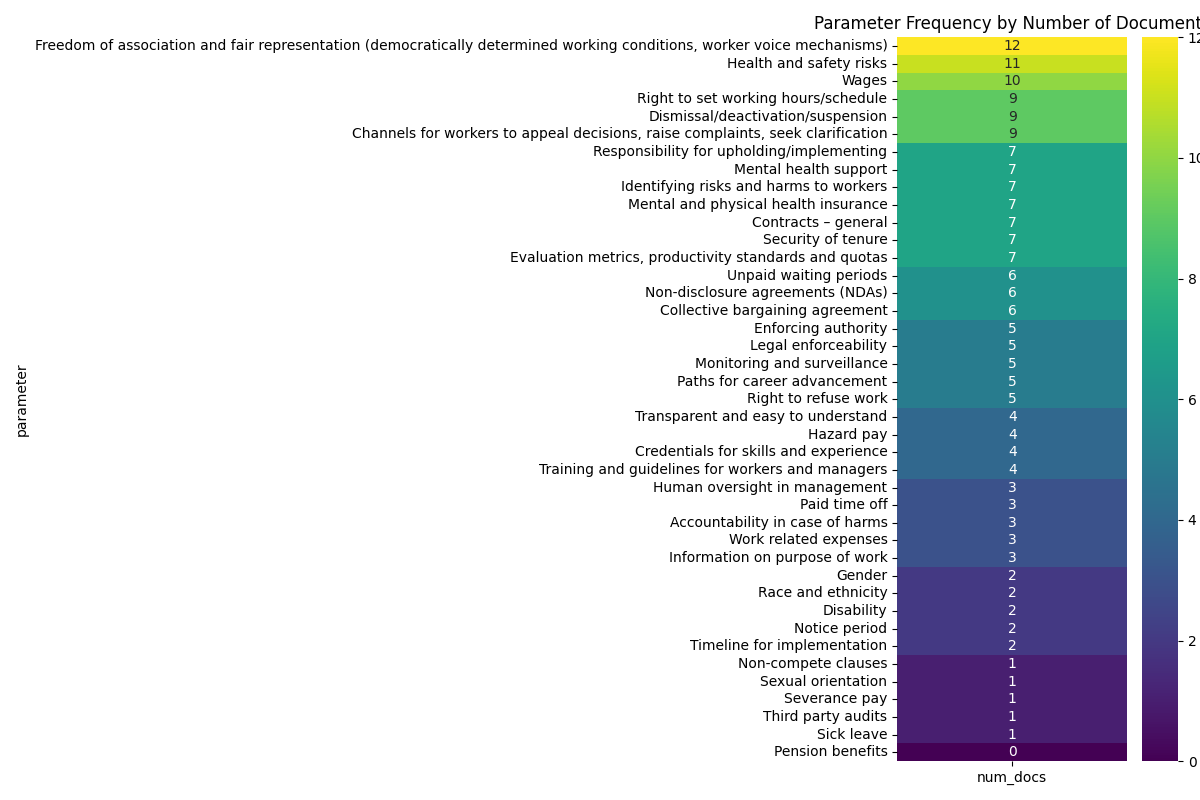
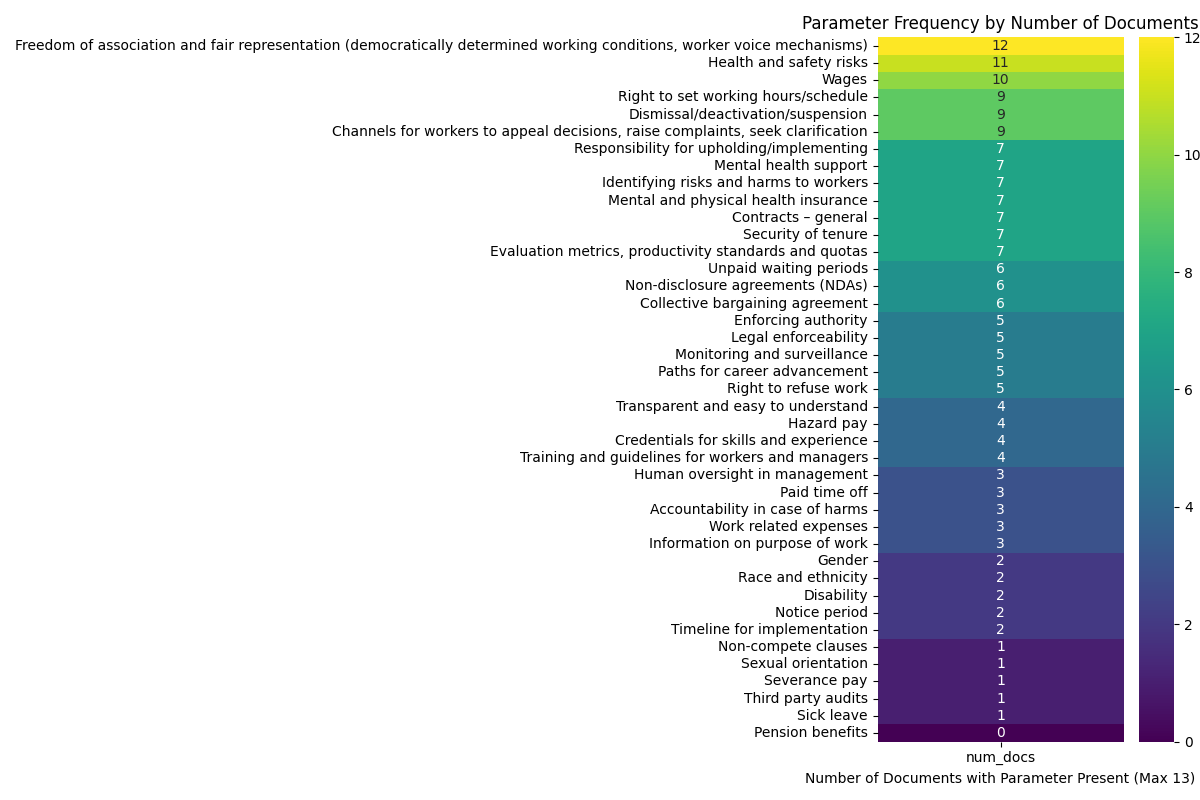
plotting

Changed region(s): [[0.0, 0.0, 1.0, 1.0], [0.8325, 0.3125, 0.8633, 0.4375], [0.0, 0.4688, 0.0308, 0.5312]]

diff --git a/analysis.py b/analysis.py
@@ -21,7 +21,8 @@ framework = pd.read_csv('./data/framework.csv')
 # For our analysis, we want to look at:
 # 1. Frequency of parameter queries per policy document 
 # 2. Frequency of parameter queries overall
-# 3. Distribution of parameter queries across different document types
+# 3. Distribution of parameter queries across different document variables
+# 4. Adherence of each document to the framework / by document variables
 
 #####  1. Frequency of parameter queries per policy document ##### 
 param_columns = ['primary_paramater', 'alt_parameter_1', 'alt_parameter_2', 
@@ -114,35 +115,217 @@ param_frequency_overall = framework_info.merge(
 # Save to CSV
 param_frequency_overall.to_csv('./data/param_frequency_overall.csv', index=False)
 
-# Plot heatmap of parameter frequencies
+# Plots of parameter frequency
 
+# Heatmaps
 # By total appearances
-heatmap_data_1 = param_frequency_overall.sort_values(by='total_appearances', ascending=False)
+plot_data_1 = param_frequency_overall.sort_values(by='total_appearances', ascending=False)
 
 plt.figure(figsize=(12, 8))
 sns.heatmap(
-    heatmap_data_1[['total_appearances']].set_index(heatmap_data_1['parameter']),
+    plot_data_1[['total_appearances']].set_index(plot_data_1['parameter']),
     annot=True,
     fmt='d',
     cmap='viridis',
 )
+plt.ylabel('')
+plt.xlabel('Total Appearances of Parameter Across Full Corpus')
 plt.title('Parameter Frequency by Total Appearances')
 plt.tight_layout()
 plt.savefig('./plots/param_frequency_by_total_appearances.png')
 plt.show()
 
 # By number of documents
-heatmap_data_2 = param_frequency_overall.sort_values(by='num_docs', ascending=False)
+plot_data_2 = param_frequency_overall.sort_values(by='num_docs', ascending=False)
 
 plt.figure(figsize=(12, 8))
 sns.heatmap(
-    heatmap_data_2[['num_docs']].set_index(heatmap_data_2['parameter']),
+    plot_data_2[['num_docs']].set_index(plot_data_2['parameter']),
     annot=True,
     fmt='d',
     cmap='viridis',
 )
+plt.ylabel('')
+plt.xlabel('Number of Documents with Parameter Present (Max 13)')
 plt.title('Parameter Frequency by Number of Documents')
 plt.tight_layout()
 plt.savefig('./plots/param_frequency_by_num_docs.png')
 plt.show()
 
+# Bar plots
+# Total appearances
+plt.figure(figsize=(14, 7))
+sns.barplot(
+    data=plot_data_1,
+    y='parameter',
+    x='total_appearances',
+    hue='total_appearances',
+    palette='viridis'
+)
+plt.ylabel('')
+plt.xlabel('Total Appearances of Parameter Across Full Corpus')
+plt.title('Parameter Frequency by Total Appearances')
+plt.tight_layout()
+plt.savefig('./plots/param_total_appearances_barplot.png')
+plt.show()
+
+# Number of documents
+plt.figure(figsize=(14, 7))
+sns.barplot(
+    data=plot_data_2,
+    y='parameter',
+    x='num_docs',
+    hue='num_docs',
+    palette='viridis'
+)
+plt.ylabel('')
+plt.xlabel('Number of Documents with Parameter Present (Max 13)')
+plt.title('Parameter Frequency by Number of Documents')
+plt.tight_layout()
+plt.savefig('./plots/param_num_docs_barplot.png')
+plt.show()
+
+##### 3. Distribution of parameter queries across different document variables #####
+
+# Select document metadata columns and parameter columns
+metadata_cols = ['title', 'org', 'doc_type', 'org_type', 'worker_focus', 'geography', 'date', 'corpus_size']
+param_cols = [col for col in param_frequency_by_policy.columns if col not in metadata_cols]
+
+### Document type
+# Group by doc_type and sum parameter frequencies
+param_by_doctype = param_frequency_by_policy.groupby('doc_type')[param_cols].sum()
+
+# Normalize by row (each doc type sums to 100%)
+# We normalize in order to see how much emphasis each document type gives to each parameter
+param_by_doctype_normalized = param_by_doctype.div(param_by_doctype.sum(axis=1), axis=0) * 100
+
+plt.figure(figsize=(20, 8))
+sns.heatmap(
+    param_by_doctype_normalized.T, # .T = transpose so parameters are rows and doc type are columns
+    annot=True,
+    fmt='.1f',
+    cmap='YlOrRd',
+    cbar_kws={'label': 'Percentage (%)'}
+)
+plt.title('Parameter Distribution by Document Type (Normalized)')
+plt.xlabel('')
+plt.ylabel('')
+#plt.tight_layout()
+plt.savefig('./plots/param_by_doctype_heatmap.png')
+plt.show()
+
+### Org type
+param_by_orgtype = param_frequency_by_policy.groupby('org_type')[param_cols].sum()
+param_by_orgtype_normalized = param_by_orgtype.div(param_by_orgtype.sum(axis=1), axis=0) * 100
+
+# Create heatmap
+plt.figure(figsize=(20, 8))
+sns.heatmap(
+    param_by_orgtype_normalized.T,
+    annot=True,
+    fmt='g',
+    cmap='YlOrRd',
+    cbar_kws={'label': 'Count'}
+)
+plt.title('Parameter Distribution by Org Type (Normalized)')
+plt.xlabel('')
+plt.ylabel('')
+#plt.tight_layout()
+plt.savefig('./plots/param_by_orgtype_heatmap.png')
+plt.show()
+
+### Worker focus
+param_by_workerfocus = param_frequency_by_policy.groupby('worker_focus')[param_cols].sum()
+param_by_workerfocus_normalized = param_by_workerfocus.div(param_by_workerfocus.sum(axis=1), axis=0) * 100
+
+# Create heatmap
+plt.figure(figsize=(20, 8))
+sns.heatmap(
+    param_by_workerfocus_normalized.T,
+    annot=True,
+    fmt='g',
+    cmap='YlOrRd',
+    cbar_kws={'label': 'Count'}
+)
+plt.title('Parameter Distribution by Worker Focus (Normalized)')
+plt.xlabel('')
+plt.ylabel('')
+#plt.tight_layout()
+plt.savefig('./plots/param_by_workerfocus_heatmap.png')
+plt.show()
+
+
+##### 4. Adherence of each document to the framework / by document variables #####
+
+# Calculate "adherence score" - i.e. how well each document adheres to the framework
+# Calculated as number of parameters mentioned / total number of parameters (41)
+metadata_cols = ['title', 'org', 'doc_type', 'org_type', 'worker_focus', 'geography', 'date', 'corpus_size']
+param_cols = [col for col in param_frequency_by_policy.columns if col not in metadata_cols]
+
+# Total parameters mentioned (count non-zero)
+param_frequency_by_policy['total_params_mentioned'] = (param_frequency_by_policy[param_cols] > 0).sum(axis=1)
+
+# Total mentions across all parameters
+param_frequency_by_policy['total_mentions'] = param_frequency_by_policy[param_cols].sum(axis=1)
+
+# Proportion of framework covered (out of total possible parameters)
+param_frequency_by_policy['framework_coverage'] = param_frequency_by_policy['total_params_mentioned'] / len(param_cols)
+
+# Summary of adherence scores by document
+adherence_summary = param_frequency_by_policy[['title', 'total_params_mentioned', 'total_mentions', 'framework_coverage']]
+print(adherence_summary)
+
+# Save to CSV
+adherence_summary.to_csv('./data/adherence_summary_by_policy.csv', index=False)
+
+# Visualize
+fig, axes = plt.subplots(2, 3, figsize=(18, 12))
+
+# Framework coverage by doc type
+sns.barplot(data=param_frequency_by_policy, x='doc_type', y='framework_coverage', ax=axes[0,0], hue='doc_type', palette='Set2')
+axes[0,0].set_title('Framework Coverage by Document Type')
+axes[0,0].set_ylabel('Proportion of Framework Covered')
+axes[0,0].set_xlabel('')
+axes[0,0].tick_params(axis='x', rotation=45)
+
+# By org type
+sns.barplot(data=param_frequency_by_policy, x='org_type', y='framework_coverage', ax=axes[0,1], hue='org_type', palette='Set3')
+axes[0,1].set_title('Framework Coverage by Organization Type')
+axes[0,1].set_ylabel('Proportion of Framework Covered')
+axes[0,1].set_xlabel('')
+axes[0,1].tick_params(axis='x', rotation=45)
+
+# By worker focus
+sns.barplot(data=param_frequency_by_policy, x='worker_focus', y='framework_coverage', ax=axes[0,2], hue='worker_focus', palette='viridis')
+axes[0,2].set_title('Framework Coverage by Worker Focus')
+axes[0,2].set_ylabel('Proportion of Framework Covered')
+axes[0,2].set_xlabel('')
+axes[0,2].tick_params(axis='x', rotation=45)
+
+# By geography
+sns.barplot(data=param_frequency_by_policy, x='geography', y='framework_coverage', ax=axes[1,0], hue='geography', palette='magma')
+axes[1,0].set_title('Framework Coverage by Geography')
+axes[1,0].set_ylabel('Proportion of Framework Covered')
+axes[1,0].set_xlabel('')
+axes[1,0].tick_params(axis='x', rotation=45)
+
+# By date
+param_frequency_by_policy['date_dt'] = pd.to_datetime(param_frequency_by_policy['date'], errors='coerce') # convert to datetime
+sns.scatterplot(data=param_frequency_by_policy.dropna(subset=['date_dt']), 
+                x='date_dt', y='framework_coverage', 
+                s=200, ax=axes[1,1], color='steelblue')  # Single color
+axes[1,1].set_title('Framework Coverage Over Time')
+axes[1,1].set_xlabel('')
+axes[1,1].set_ylabel('Proportion of Framework Covered')
+axes[1,1].tick_params(axis='x', rotation=45)
+
+# By document length
+sns.scatterplot(data=param_frequency_by_policy, x='corpus_size', y='framework_coverage', 
+                s=200, ax=axes[1,2], color='steelblue')  # Single color
+axes[1,2].set_title('Framework Coverage vs Document Length')
+axes[1,2].set_xlabel('Document Length (corpus size)')
+axes[1,2].set_ylabel('Proportion of Framework Covered')
+
+plt.tight_layout()
+plt.savefig('./plots/framework_adherence_analysis.png', dpi=300)
+plt.show()
